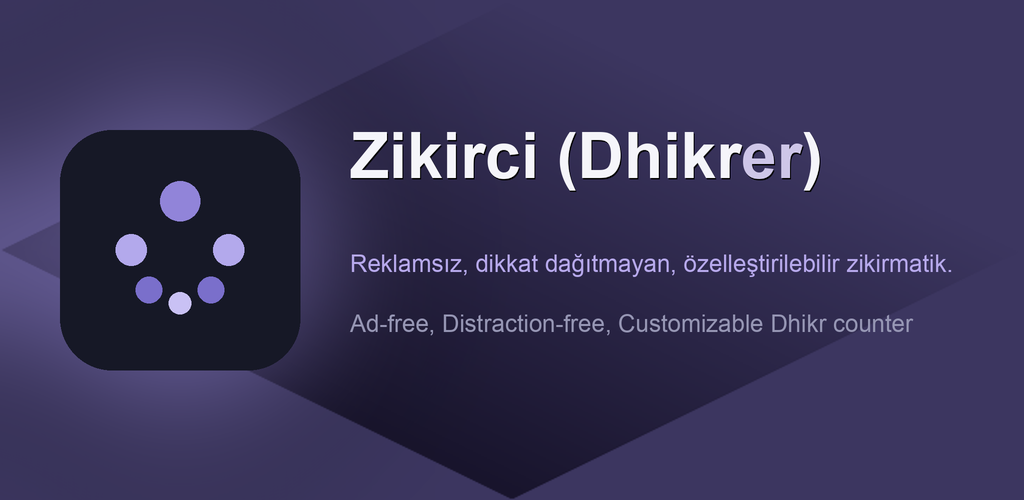
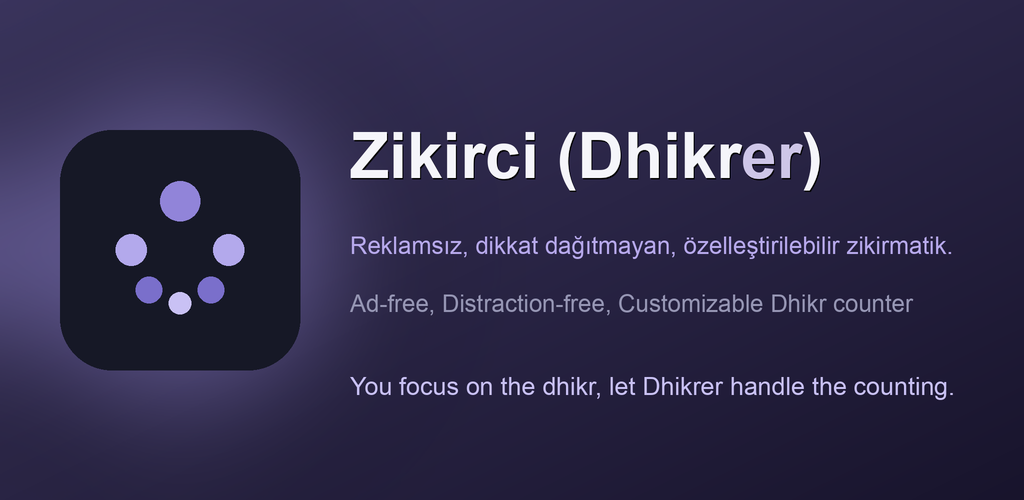
docs(store): expanded FGS justification + feature graphic slogan/gradient tweak
- PLAY_RELEASE.md: paste-ready expanded English FOREGROUND_SERVICE_SPECIAL_USE
  justification (task, why immediate & non-deferrable) + video-field guidance.
- store_assets.py: clean per-pixel diagonal gradient (no diamond artifact);
  add TR/EN slogan line under the title.
- Regenerated feature-graphic-1024x500.png.

Claude-Session: https://claude.ai/code/session_01JPRf3XGUk3gDAftteoq14i

diff --git a/tools/store_assets.py b/tools/store_assets.py
@@ -64,12 +64,13 @@ def feature_1024x500():
 
     def px(v): return int(v * SS)
 
-    # diagonal gradient, lighter top-left → deep purple bottom-right (brighter so the dark logo tile pops)
+    # clean diagonal gradient, lighter top-left → deep purple bottom-right (no diamond artifact)
     tl, br = (60, 54, 96), (24, 20, 44)
-    ramp = Image.linear_gradient("L").rotate(-45, expand=True, resample=Image.BICUBIC).resize((W, H))
     lut = [tuple(int(tl[i] + (br[i] - tl[i]) * (v / 255)) for i in range(3)) for v in range(256)]
+    xr = [x / (W - 1) for x in range(W)]
     rgb = Image.new("RGB", (W, H))
-    rgb.putdata([lut[p] for p in ramp.getdata()])
+    rgb.putdata([lut[int((xf + yf) * 0.5 * 255)]
+                 for yf in (y / (H - 1) for y in range(H)) for xf in xr])
     img = rgb.convert("RGBA")
     d = ImageDraw.Draw(img)
 
@@ -90,8 +91,10 @@ def feature_1024x500():
     soft = (206, 198, 232, 255)   # subtle tone for "er"
     sub_c = (183, 169, 236, 255)
     sub_en = (150, 150, 180, 255)
+    slog_c = (201, 193, 244, 255)  # tasbih C9C1F4 accent for the slogan
     TR = "Reklamsız, dikkat dağıtmayan, özelleştirilebilir zikirmatik."
     EN = "Ad-free, Distraction-free, Customizable Dhikr counter"
+    SLOGAN = "You focus on the dhikr, let Dhikrer handle the counting."
 
     def fit(text, start, lo=16):
         for s in range(start, lo - 1, -1):
@@ -102,6 +105,7 @@ def feature_1024x500():
 
     ftitle = font(px(64))
     fs = fit(max([TR, EN], key=len), 32)
+    fslog = fit(SLOGAN, 30)
 
     # title segments so "er" gets the soft tone
     y = px(120)
@@ -111,8 +115,9 @@ def feature_1024x500():
         d.text((x, y), seg, font=ftitle, fill=col)
         x += d.textlength(seg, font=ftitle)
 
-    d.text((xtext, px(250)), TR, font=fs, fill=sub_c)
-    d.text((xtext, px(310)), EN, font=fs, fill=sub_en)
+    d.text((xtext, px(232)), TR, font=fs, fill=sub_c)
+    d.text((xtext, px(290)), EN, font=fs, fill=sub_en)
+    d.text((xtext, px(372)), SLOGAN, font=fslog, fill=slog_c)
 
     img = img.resize((1024, 500), Image.LANCZOS)
     p = os.path.join(OUT, "feature-graphic-1024x500.png")

diff --git a/store/PLAY_RELEASE.md b/store/PLAY_RELEASE.md
@@ -20,9 +20,30 @@
 
 1. **İmzalama** — Play App Signing'i aç. `zikirci-release.jks` **upload key**'in olur.
    (Gerçek yayında parolaları değiştir; `keystore.properties` gizli kalsın.)
-2. **specialUse FGS onayı** — Play, `specialUse` için gerekçe formu sorar. Gerekçe:
-   *"Kullanıcı ekran kapalıyken ses tuşlarıyla zikir sayacını ilerletebilsin diye
-   MediaSession'ı canlı tutan kısa ömürlü foreground service."*
+2. **specialUse FGS onayı** — Play, `specialUse` için gerekçe formu sorar ("Ön plan
+   hizmeti izinleri" → **Diğer/Other**). Video alanı genelde opsiyonel: önce boş
+   gönder; zorunlu tutarsa ~20 sn'lik ekran kaydı (sesli tuş sayımını aç → ekran
+   kapalı → ses+ → sayaç artıyor) YouTube'a **unlisted** yükleyip linki ver.
+   İnceleyenler İngilizce okuduğu için **"İzin kullanımını açıklayın" alanına şu
+   İngilizce metni yapıştır** (kısa TR özeti: ekran kapalıyken ses tuşlarıyla zikir
+   sayacını ilerletmek için MediaSession'ı canlı tutan kısa ömürlü foreground service):
+
+   ```
+   Dhikrer/Zikirci is a dhikr (prayer) counter. A core feature lets the user
+   increment the counter with the phone's physical volume keys while the screen
+   is off or the app is in the background. To keep receiving volume/media-button
+   events in that state, the app holds an active MediaSession, which Android only
+   allows inside a foreground service. We declare FOREGROUND_SERVICE_SPECIAL_USE
+   because the service neither plays nor records media and does not fit any
+   standard FGS type — it exists solely to capture volume-key presses in real time.
+
+   Why it must start immediately and cannot be deferred, paused or restarted: the
+   user expects the very next volume-key press to be counted instantly, so the
+   MediaSession must already be live the moment the feature is enabled. Deferrable
+   APIs such as WorkManager or JobScheduler cannot handle real-time hardware key
+   input. The service is short-lived — it starts when the user begins a volume-key
+   counting session and stops when they finish. No audio is played or recorded.
+   ```
 3. **Gizlilik Politikası URL'si** — zorunlu (bildirim izni var). Basit bir sayfa yeter.
 4. **Data safety formu** — uygulama veri toplamıyor/paylaşmıyor (her şey cihazda,
    localStorage). "No data collected/shared" işaretle.
